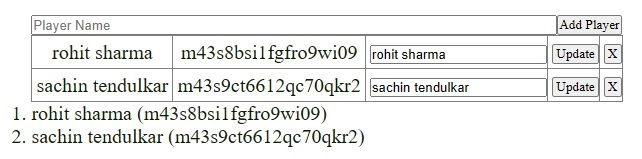
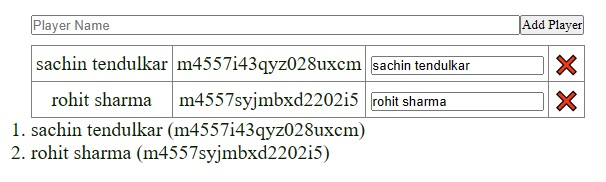
svelte 5 crud

Changed region(s): [[0.0, 0.0755, 0.9802, 0.7799], [0.0, 0.7799, 0.5941, 0.9308]]

diff --git a/framework/svelte/svelte_store.html b/framework/svelte/svelte_store.html
@@ -225,6 +225,7 @@ export const teamScoreStore = new TeamScoreStore();</code></pre>
   import { teamStore } from &#x22;../stores/crudStore.svelte.js&#x22;;
 
   let name = $state(&#x22;&#x22;);
+  let players = teamStore.players;
 
   const addPlayer = () =&#x3E; {
     teamStore.addPlayer(name);
@@ -232,9 +233,6 @@ export const teamScoreStore = new TeamScoreStore();</code></pre>
   };
   const removePlayer = (id) =&#x3E; {
     teamStore.deletePlayer(id);
-  };
-  const updatePlayer = (obj) =&#x3E; {
-    teamStore.updatePlayer(obj);
   };
 &#x3C;/script&#x3E;
 
@@ -245,25 +243,25 @@ export const teamScoreStore = new TeamScoreStore();</code></pre>
   &#x3C;/div&#x3E;
   &#x3C;table&#x3E;
     &#x3C;tbody
-      &#x3E;{#each teamStore.players as player (player.id)}
+      &#x3E;{#each players as player (player.id)}
         &#x3C;tr&#x3E;
           &#x3C;td&#x3E;{player.name}&#x3C;/td&#x3E;
           &#x3C;td&#x3E;{player.id}&#x3C;/td&#x3E;
 
           &#x3C;td&#x3E;&#x3C;input type=&#x22;text&#x22; bind:value={player.name} /&#x3E;&#x3C;/td&#x3E;
+
           &#x3C;td
-            &#x3E;&#x3C;button
-              onclick={() =&#x3E; {
-                updatePlayer(player);
-              }}&#x3E;Update&#x3C;/button
-            &#x3E;&#x3C;/td
-          &#x3E;
-          &#x3C;td
-            &#x3E;&#x3C;button
+            &#x3E;&#x3C;div
+              tabindex=&#x22;0&#x22;
+              role=&#x22;button&#x22;
+              aria-label=&#x22;Close&#x22;
+              onkeydown={() =&#x3E; {}}
               onclick={() =&#x3E; {
                 removePlayer(player.id);
-              }}&#x3E;X&#x3C;/button
-            &#x3E;&#x3C;/td
+              }}
+            &#x3E;
+              &#x274C;
+            &#x3C;/div&#x3E;&#x3C;/td
           &#x3E;
         &#x3C;/tr&#x3E;
       {/each}&#x3C;/tbody
@@ -271,7 +269,7 @@ export const teamScoreStore = new TeamScoreStore();</code></pre>
   &#x3C;/table&#x3E;
   &#x3C;div&#x3E;
     &#x3C;ol&#x3E;
-      {#each teamStore.players as player (player.id)}
+      {#each players as player (player.id)}
         &#x3C;li&#x3E;{player.name} ({player.id})&#x3C;/li&#x3E;
       {/each}
     &#x3C;/ol&#x3E;
@@ -289,6 +287,7 @@ export const teamScoreStore = new TeamScoreStore();</code></pre>
     flex-grow: 1;
   }
   table {
+    margin-top: 0.5em;
     width: 100%;
     border: 1px solid gray;
     border-collapse: collapse;
@@ -297,10 +296,6 @@ export const teamScoreStore = new TeamScoreStore();</code></pre>
     padding: 0.2em;
     border: 1px solid gray;
     text-align: center;
-  }
-  table input,
-  table button {
-    width: 100%;
   }
 &#x3C;/style&#x3E;</code></pre>
             </li>
